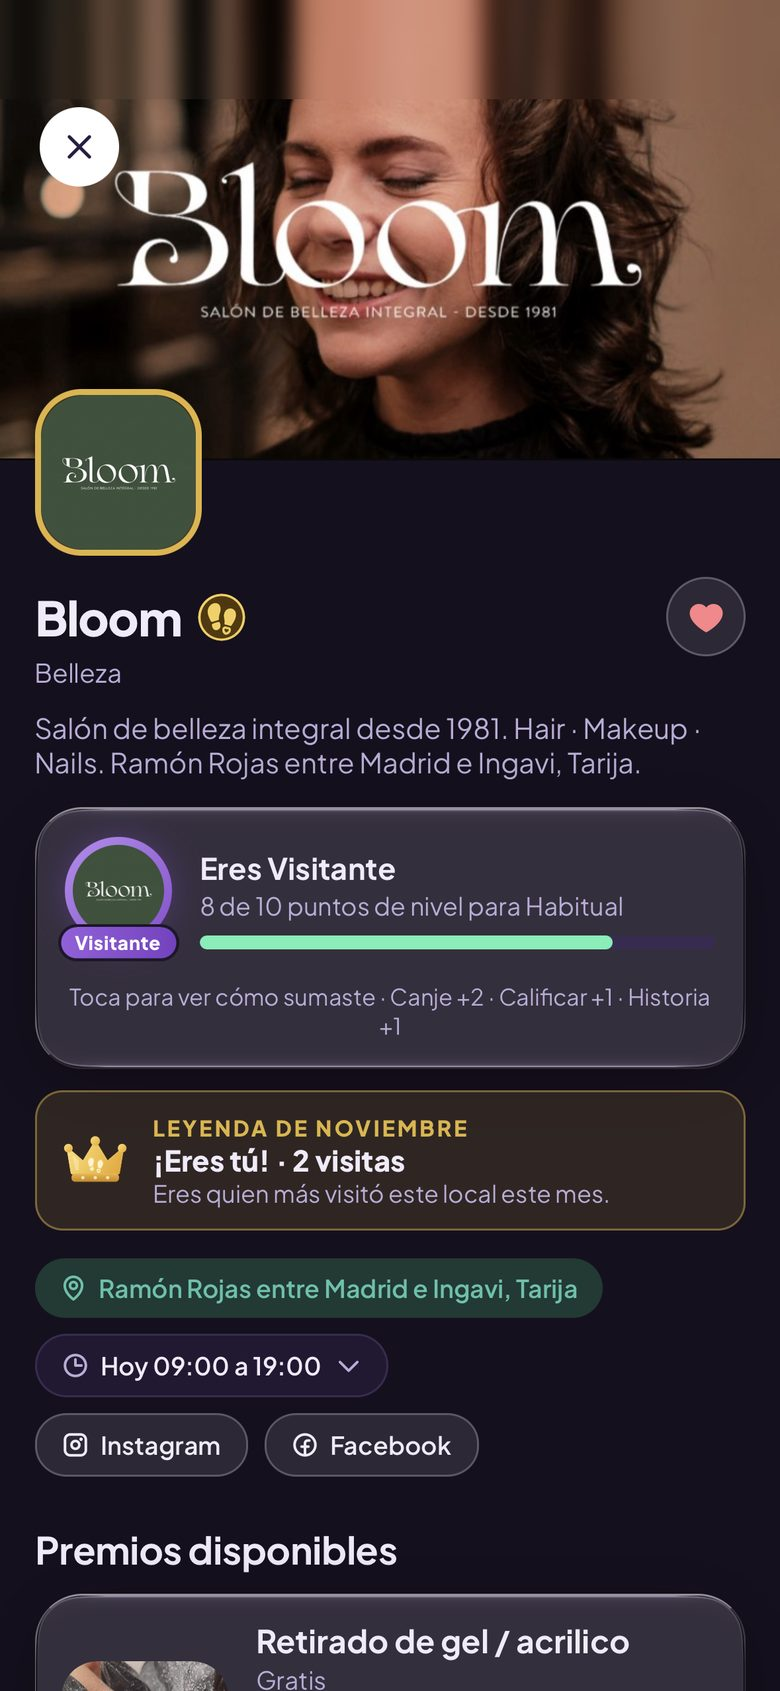
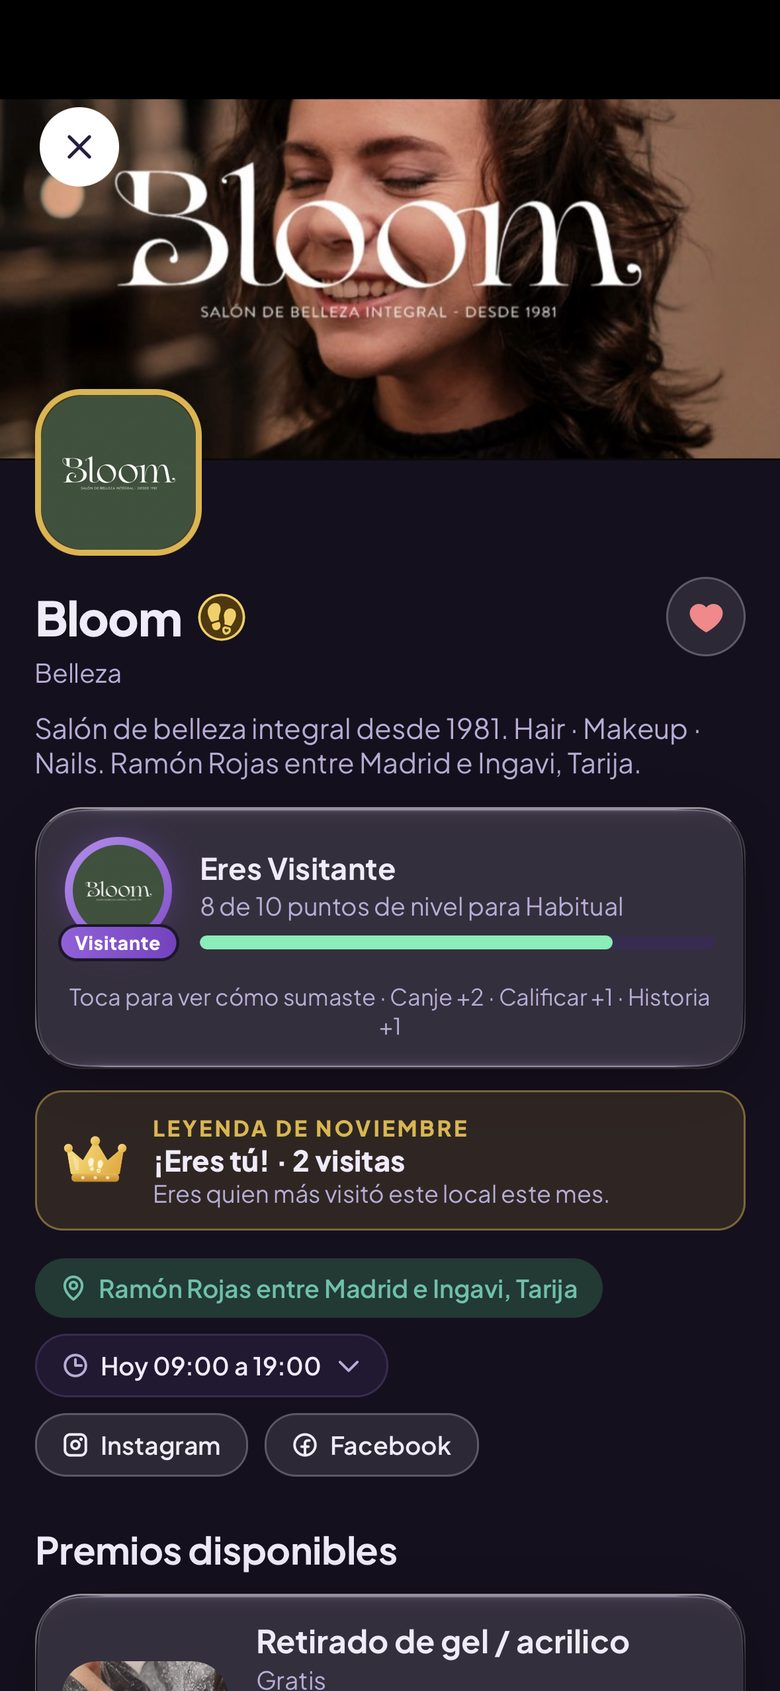
Comercios: parte superior negra en las capturas y texto de Ruta del mes más simple

Changed region(s): [[0.0, 0.0, 1.0, 0.0615]]

diff --git a/apps/partner/src/components/landing/comercios.css b/apps/partner/src/components/landing/comercios.css
@@ -17,10 +17,10 @@
 
 /* marco de iPhone con isla dinámica */
 .lp-comercios .ip{position:relative;width:100%;border-radius:17% / 7.8%;padding:2.4%;background:linear-gradient(160deg,#2b2540,#0c0818 40%,#1b1530);box-shadow:0 0 0 1.5px #3b3456,0 0 0 3px #0a0614,0 28px 60px rgba(0,0,0,.55),inset 0 0 0 1px rgba(255,255,255,.08)}
-.lp-comercios .ip-screen{position:relative;aspect-ratio:780/1688;border-radius:14.6% / 6.7%;overflow:hidden;background:#0b0716}
+.lp-comercios .ip-screen{position:relative;aspect-ratio:780/1688;border-radius:14.6% / 6.7%;overflow:hidden;background:#000}
 .lp-comercios .ip-screen img{object-fit:cover}
 .lp-comercios .ip-island{position:absolute;z-index:5;top:2.2%;left:50%;transform:translateX(-50%);width:31%;aspect-ratio:3.3/1;border-radius:999px;background:#000}
-.lp-comercios .scr{position:absolute;inset:0;opacity:0;transition:opacity .6s ease}
+.lp-comercios .scr{position:absolute;inset:0;background:#000;opacity:0;transition:opacity .6s ease}
 .lp-comercios .scr.on{opacity:1}
 .lp-comercios .scr .vid{position:absolute;inset:0;width:100%;height:100%;object-fit:cover}
 .lp-comercios .cx-float{animation:cxfloat 6s ease-in-out infinite}

diff --git a/apps/partner/src/components/landing/ComerciosShow.tsx b/apps/partner/src/components/landing/ComerciosShow.tsx
@@ -195,7 +195,7 @@ export function RutaMes() {
       <div className="wrap">
         <p className="kick">Ruta del mes</p>
         <Kinetic text="Tu local, entre los *3* *sorpresa.*" />
-        <p className="cx-lead"><b>Sin pagar plan.</b> Es una oportunidad de visibilidad, no una garantía de visitas ni de compras.</p>
+        <p className="cx-lead">Tu local puede ser parte de la ruta del mes, <b>sin pagar plan.</b></p>
         <Escaparate id="esc-ruta" items={items} ms={7500} nota="Pantallas y video de la app real." />
       </div>
     </section>
